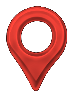
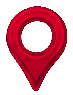
OTA: drive-test wave 2 — speedo red pin, smaller CarPlay pins, z-order, route-color parity, missed-exit fast reroute
- DriveBC red pin re-tinted to the SPEEDO speeding red (#E4002B) — tester
  matched it against the over-limit speedometer tint, not the theme red.
- CarPlay pins: PlaceMarker/IncidentMarker gain a scale prop; the head unit
  renders them at 0.72 (full-size crowded the car map). Badge/glyph geometry
  now derives from the measured hole centroid (0.5w, 0.38h) at any scale.
- Phone pins under the route line: within a Mapbox slot z-order is ADD-time,
  and route layers are added AFTER the pins when nav starts. GLPinLayers now
  remounts (key) whenever route layers appear, restacking pins on top.
- CarPlay route color now resolves the phone's per-kind transform (scenic =
  contrast, AI = black core) via a mirrored routeKind — raw base color made
  the two screens disagree on AI/scenic routes.
- Missed-exit fast reroute: closest-approach tracker per step; approached the
  maneuver <80m then receded >150m without advancing while >25m off the line
  -> immediate reroute (was ~30s, the mainline parallels the ramp so the
  perpendicular streak crawled).

diff --git a/frontend/src/ConvoyMapbox.tsx b/frontend/src/ConvoyMapbox.tsx
@@ -1057,11 +1057,13 @@ const INCIDENT_TITLE: Record<RoadEventKind, string> = {
   incident: "Incident", construction: "Roadwork", road: "Road closure",
   weather: "Weather hazard", event: "Road event",
 };
-export function IncidentMarker({ event }: { event: RoadEvent }) {
-  // Severity-tinted Hairpin teardrop (red = major/moderate, grey = minor) with
-  // the black wrench/hammer badged on the head — matches the phone's GL pins
-  // (this MarkerView version renders on the CarPlay map; parity rule).
+export function IncidentMarker({ event, scale = 1 }: { event: RoadEvent; scale?: number }) {
+  // Severity-tinted Hairpin teardrop (red = major/moderate in the SPEEDO red,
+  // grey = minor) with the black wrench/hammer in the head — matches the
+  // phone's GL pins (this MarkerView version renders on the CarPlay map;
+  // parity rule). `scale` shrinks the pin (CarPlay passes ~0.72).
   const red = event.severity === "MAJOR" || event.severity === "MODERATE";
+  const W = 34 * scale, H = 44 * scale;
   // Official event — tap shows the headline. Deliberately NOT the crew-hazard sheet
   // (no report/delete actions on a government feed item).
   const showDetail = () => {
@@ -1071,18 +1073,18 @@ export function IncidentMarker({ event }: { event: RoadEvent }) {
   return (
     <MarkerView coordinate={[event.lng, event.lat]} anchor={{ x: 0.5, y: 1 }} allowOverlap>
       <Pressable onPress={showDetail} hitSlop={8}>
-        <View style={styles.brandPinWrap}>
+        <View style={{ width: W, height: H, alignItems: "center" }}>
           <Image
             source={red ? require("../assets/images/brand-pin-red.png") : require("../assets/images/brand-pin-grey.png")}
-            style={styles.brandPin}
+            style={{ width: W, height: H }}
             resizeMode="contain"
           />
           {/* Glyph sits INSIDE the pin's head circle — no badge circle behind it.
-              The small margins counter the MCI glyph's font bearing (draws
-              ~1.8pt left / 2.35pt high of its box — measured on the phone's GL
-              pins from the tester screenshot; same font, same correction). */}
-          <View style={[styles.brandPinBadge, { backgroundColor: "transparent" }]}>
-            <MaterialCommunityIcons name="hammer-wrench" size={12} color="#0B0B0C" style={{ marginLeft: 3.6, marginTop: 4.7 }} />
+              Box centre = the hole's alpha-centroid (x 0.5w, y 0.38h); the small
+              margins counter the MCI glyph's font bearing (draws ~1.8pt left /
+              2.35pt high of its box — measured from the tester screenshot). */}
+          <View style={[styles.brandPinBadgeDyn, { backgroundColor: "transparent", top: H * 0.38 - 10 * scale, left: W / 2 - 10 * scale, width: 20 * scale, height: 20 * scale }]}>
+            <MaterialCommunityIcons name="hammer-wrench" size={12 * scale} color="#0B0B0C" style={{ marginLeft: 3.6 * scale, marginTop: 4.7 * scale }} />
           </View>
         </View>
       </Pressable>
@@ -1095,20 +1097,23 @@ export function IncidentMarker({ event }: { event: RoadEvent }) {
 // The "Place pins" setting (showPins) hides the pure pin GLYPHS (teardrop under
 // a name, gas-pump badge) while ALWAYS keeping price chips and name labels. A
 // no-price gas station with pins off has nothing to draw → no marker at all.
-export function PlaceMarker({ place, index, onPress }: { place: PlacePoint; index: number; onPress?: (p: PlacePoint) => void }) {
+export function PlaceMarker({ place, index, onPress, scale = 1 }: { place: PlacePoint; index: number; onPress?: (p: PlacePoint) => void; scale?: number }) {
   // Unified numbered result pin — green background, thin grey border, Convoy
   // font. The number matches the row order in the Results dropdown so the list
   // and the map line up (1, 2, 3 …). Gas premium price + ratings live in the
-  // dropdown now, keeping the map itself clean.
+  // dropdown now, keeping the map itself clean. `scale` shrinks the whole pin
+  // proportionally (CarPlay passes ~0.72 — full-size pins crowd the head unit).
+  const W = 34 * scale, H = 44 * scale;
   return (
     <MarkerView coordinate={[place.lng, place.lat]} anchor={{ x: 0.5, y: 1 }} allowOverlap>
       <Pressable onPress={() => onPress?.(place)} hitSlop={6}>
         {/* Hairpin brand pin + the result number badged on its head, so the map
             pins, the results list, and the logo all speak the same language. */}
-        <View style={styles.brandPinWrap}>
-          <Image source={require("../assets/images/brand-pin.png")} style={styles.brandPin} resizeMode="contain" />
-          <View style={styles.brandPinBadge}>
-            <Text style={styles.placeNumText}>{index + 1}</Text>
+        <View style={{ width: W, height: H, alignItems: "center" }}>
+          <Image source={require("../assets/images/brand-pin.png")} style={{ width: W, height: H }} resizeMode="contain" />
+          {/* Badge centre = the pin-head hole centre (alpha-centroid: x 0.5w, y 0.38h). */}
+          <View style={[styles.brandPinBadgeDyn, { top: H * 0.38 - 10 * scale, left: W / 2 - 10 * scale, width: 20 * scale, height: 20 * scale, borderRadius: 10 * scale }]}>
+            <Text style={[styles.placeNumText, { fontSize: 14 * scale }]}>{index + 1}</Text>
           </View>
         </View>
       </Pressable>
@@ -2230,11 +2235,14 @@ function ConvoyMapbox(props: ConvoyMapboxProps) {
           );
         })}
 
-        {/* Hazards / cameras / DriveBC incidents / place pins — drawn as GL layers in
-            slot="middle" so the self 3D marker (ModelLayer, slot="top") renders ABOVE
-            them. Cameras are the on-route decluttered subset; hazards the visible set.
-            Taps route to the same handlers (see GLPinLayers). */}
+        {/* Hazards / cameras / DriveBC incidents / place pins — GL layers. Within a
+            Mapbox slot, z-order is ADD-time order, not JSX order: these pin layers
+            mount at app open, the route layers only get ADDED when a route first
+            exists — so a later route painted OVER the pins (tester photo). The key
+            forces a pin-layer REMOUNT whenever route layers appear/disappear,
+            re-adding the pins after the route so they stack on top again. */}
         <GLPinLayers
+          key={`pins-${routeFC.features.length > 0 ? "r" : "n"}`}
           hazards={visibleHazards}
           cameras={onRouteCameras}
           incidents={roadEvents || []}
@@ -2317,6 +2325,11 @@ const styles = StyleSheet.create({
   brandPinBadge: {
     position: "absolute", top: 5, left: 7, width: 20, height: 20, borderRadius: 10,
     backgroundColor: "#0A1A10", alignItems: "center", justifyContent: "center",
+  },
+  // Scale-aware variant: size/position come inline from the marker's `scale`.
+  brandPinBadgeDyn: {
+    position: "absolute", backgroundColor: "#0A1A10",
+    alignItems: "center", justifyContent: "center",
   },
   // Mid-drive reroute offer pill (tap = switch, ✕ = dismiss).
   offerPill: {

diff --git a/frontend/src/nav.ts b/frontend/src/nav.ts
@@ -455,6 +455,12 @@ export function useTurnByTurn(
   });
   const announcedRef = useRef<Set<string>>(new Set());
   const lastSpokeRef = useRef<number>(0);
+  // MISSED-MANEUVER fast path: closest approach to the current step's maneuver.
+  // Approached (<80 m) then receded (>min+150 m) without advancing = the driver
+  // kept going past the turn/exit (tester: straight past an exit took ~30 s to
+  // react, because the mainline runs parallel to the ramp and the perpendicular
+  // off-route distance grows too slowly to trip the streak).
+  const missRef = useRef<{ step: number; min: number } | null>(null);
   const lastOffRouteAtRef = useRef<number>(0);
   const offRouteStreakRef = useRef<number>(0);
   const polyCacheRef = useRef<{ key: string; pts: LatLng[] }>({ key: "", pts: [] });
@@ -657,6 +663,13 @@ export function useTurnByTurn(
       }
     }
 
+    // Track the closest approach to THIS step's maneuver (missed-turn detector).
+    if (!missRef.current || missRef.current.step !== stepIdx) {
+      missRef.current = { step: stepIdx, min: dManeuver };
+    } else if (dManeuver < missRef.current.min) {
+      missRef.current.min = dManeuver;
+    }
+
     // Off-route by PERPENDICULAR distance to the route LINE — not distance to the
     // step's endpoints (which falsely flagged off-route in the middle of a long
     // highway step → the underpass/bridge detours). Require it to persist ≥2 GPS
@@ -693,7 +706,20 @@ export function useTurnByTurn(
       //   • off + heading diverging (>55°) → 3 ticks (~3 s): a real wrong turn
       //   • off but heading still aligned  → 6 ticks (~6 s): a SUSTAINED offset,
       //     not a momentary multipath spike (the parallel-road departure)
+      // MISSED-MANEUVER fast path (tester: kept straight past an exit; the
+      // mainline parallels the ramp so dRoute grows too slowly — ~30 s to
+      // react). Got within 80 m of the maneuver, then receded 150 m+ WITHOUT
+      // advancing (a pass-through advances at <25 m), while measurably off the
+      // line (>25 m — kills loop-road false positives where the route itself
+      // curls near the maneuver). Trips immediately, no streak needed.
+      const missedManeuver =
+        stepIdx < steps.length - 1 &&
+        missRef.current != null && missRef.current.step === stepIdx &&
+        missRef.current.min < 80 &&
+        dManeuver > missRef.current.min + 150 &&
+        dRoute > 25;
       const tripped =
+        missedManeuver ? true :
         conclusivelyOff ? offRouteStreakRef.current >= 2 :
         headingOff      ? offRouteStreakRef.current >= 3 :
                           offRouteStreakRef.current >= 6;
@@ -702,6 +728,7 @@ export function useTurnByTurn(
         if (now - lastOffRouteAtRef.current > 8000) {
           lastOffRouteAtRef.current = now;
           offRouteStreakRef.current = 0;
+          missRef.current = null; // one miss = one reroute; re-arm on the new route
           options?.onOffRoute?.();
         }
       }

diff --git a/frontend/src/carplay/CarMapView.tsx b/frontend/src/carplay/CarMapView.tsx
@@ -54,6 +54,7 @@ import {
   CameraMarker,
   IncidentMarker,
   PlaceMarker,
+  routeColorsFor,
   ROAD_SRC_ID,
   ROAD_SNAP_LOCK_M,
   ROAD_SNAP_RELEASE_M,
@@ -417,9 +418,13 @@ export default function CarMapView({ onGLError, attempt = 0 }: Props) {
     const s1 = Math.min(0.999, Math.max(s0 + 0.0006, s0 + fadeSpanFrac));
     return ['interpolate', ['linear'], ['line-progress'], 0, clear, s0, clear, s1, solid, 1, solid];
   };
-  // User-chosen route color (mirrored from the phone via carStore). Core + glow + the
-  // near-car fade all derive from it; falls back to brand green.
-  const carRouteColor = s.routeColor || ROUTE_GREEN_CORE;
+  // User-chosen route color (mirrored from the phone via carStore) — resolved
+  // through the SAME per-kind transform the phone paints with (scenic =
+  // contrast color, AI = black core), so the head unit's line matches the
+  // phone exactly (tester: "CarPlay route colour differs, phone is correct").
+  // s.routeKind mirrors the SELECTED route's kind; absent (old bundle) → base.
+  const carBaseColor = s.routeColor || ROUTE_GREEN_CORE;
+  const carRouteColor = routeColorsFor((s.routeKind as any) || 'best', carBaseColor).color;
   const coreGrad = buildLineFade(routeRgba(carRouteColor, 1), routeRgba(carRouteColor, 0));
   const glowGrad = buildLineFade(routeRgba(carRouteColor, 1), routeRgba(carRouteColor, 0));
   const routeFC: any = {
@@ -703,7 +708,7 @@ export default function CarMapView({ onGLError, attempt = 0 }: Props) {
       )}
 
       {(s.roadEvents || []).map((e) => (
-        <IncidentMarker key={'inc_' + e.id} event={e} />
+        <IncidentMarker key={'inc_' + e.id} event={e} scale={0.72} />
       ))}
       {(s.hazards || []).map((h) => (
         <HazardMarker key={'hz_' + h.id} hazard={h as any} />
@@ -712,7 +717,7 @@ export default function CarMapView({ onGLError, attempt = 0 }: Props) {
         <CameraMarker key={'cam_' + c.id} lat={c.lat} lng={c.lng} />
       ))}
       {(s.places || []).map((p, i) => (
-        <PlaceMarker key={'pl_' + p.id} place={p as any} index={i} />
+        <PlaceMarker key={'pl_' + p.id} place={p as any} index={i} scale={0.72} />
       ))}
     </MapView>
   );

diff --git a/frontend/src/carplay/ConvoyCarPlay.tsx b/frontend/src/carplay/ConvoyCarPlay.tsx
@@ -632,6 +632,10 @@ export function useConvoyCarPlay({ route, routes, selectedRouteIndex = 0, tbt, u
       places: places || [],
       // Route-line color → car route matches the phone's chosen color.
       routeColor: getRouteColor(getSettings()),
+      // Selected route's KIND → the car resolves the same per-kind transform the
+      // phone paints with (scenic = contrast color, AI = black core). Without it
+      // CarPlay drew the raw base color and diverged from the phone on AI/scenic.
+      routeKind: routes && routes.length ? routeKindFor(selectedRouteIndex, routes[selectedRouteIndex]) : 'best',
       // Live weather (only while the phone's weather layer feeds it). Temp pre-formatted
       // in the driver's unit; CarSurface maps weatherKind to a glyph.
       weatherTemp: weather

diff --git a/frontend/src/carplay/carStore.ts b/frontend/src/carplay/carStore.ts
@@ -89,6 +89,9 @@ export type CarState = {
   // User-chosen route-line color (base hex, mirror of settings.routeColor). Lets the
   // CarPlay live route match the phone. undefined → CarMapView falls back to green.
   routeColor?: string;
+  // Selected route's kind ('best' | 'scenic' | 'ai' | …) — CarMapView resolves the
+  // phone's per-kind color transform from it so both screens paint identically.
+  routeKind?: string;
   // Up to three DISPLAY routes (Best / Scenic / AI) for the CarPlay preview, mirrored
   // from the phone. Each carries its precomputed core `color` + casing `edge` (AI = black
   // core, user-color edge) so CarMapView paints them per-kind without re-deriving, plus
